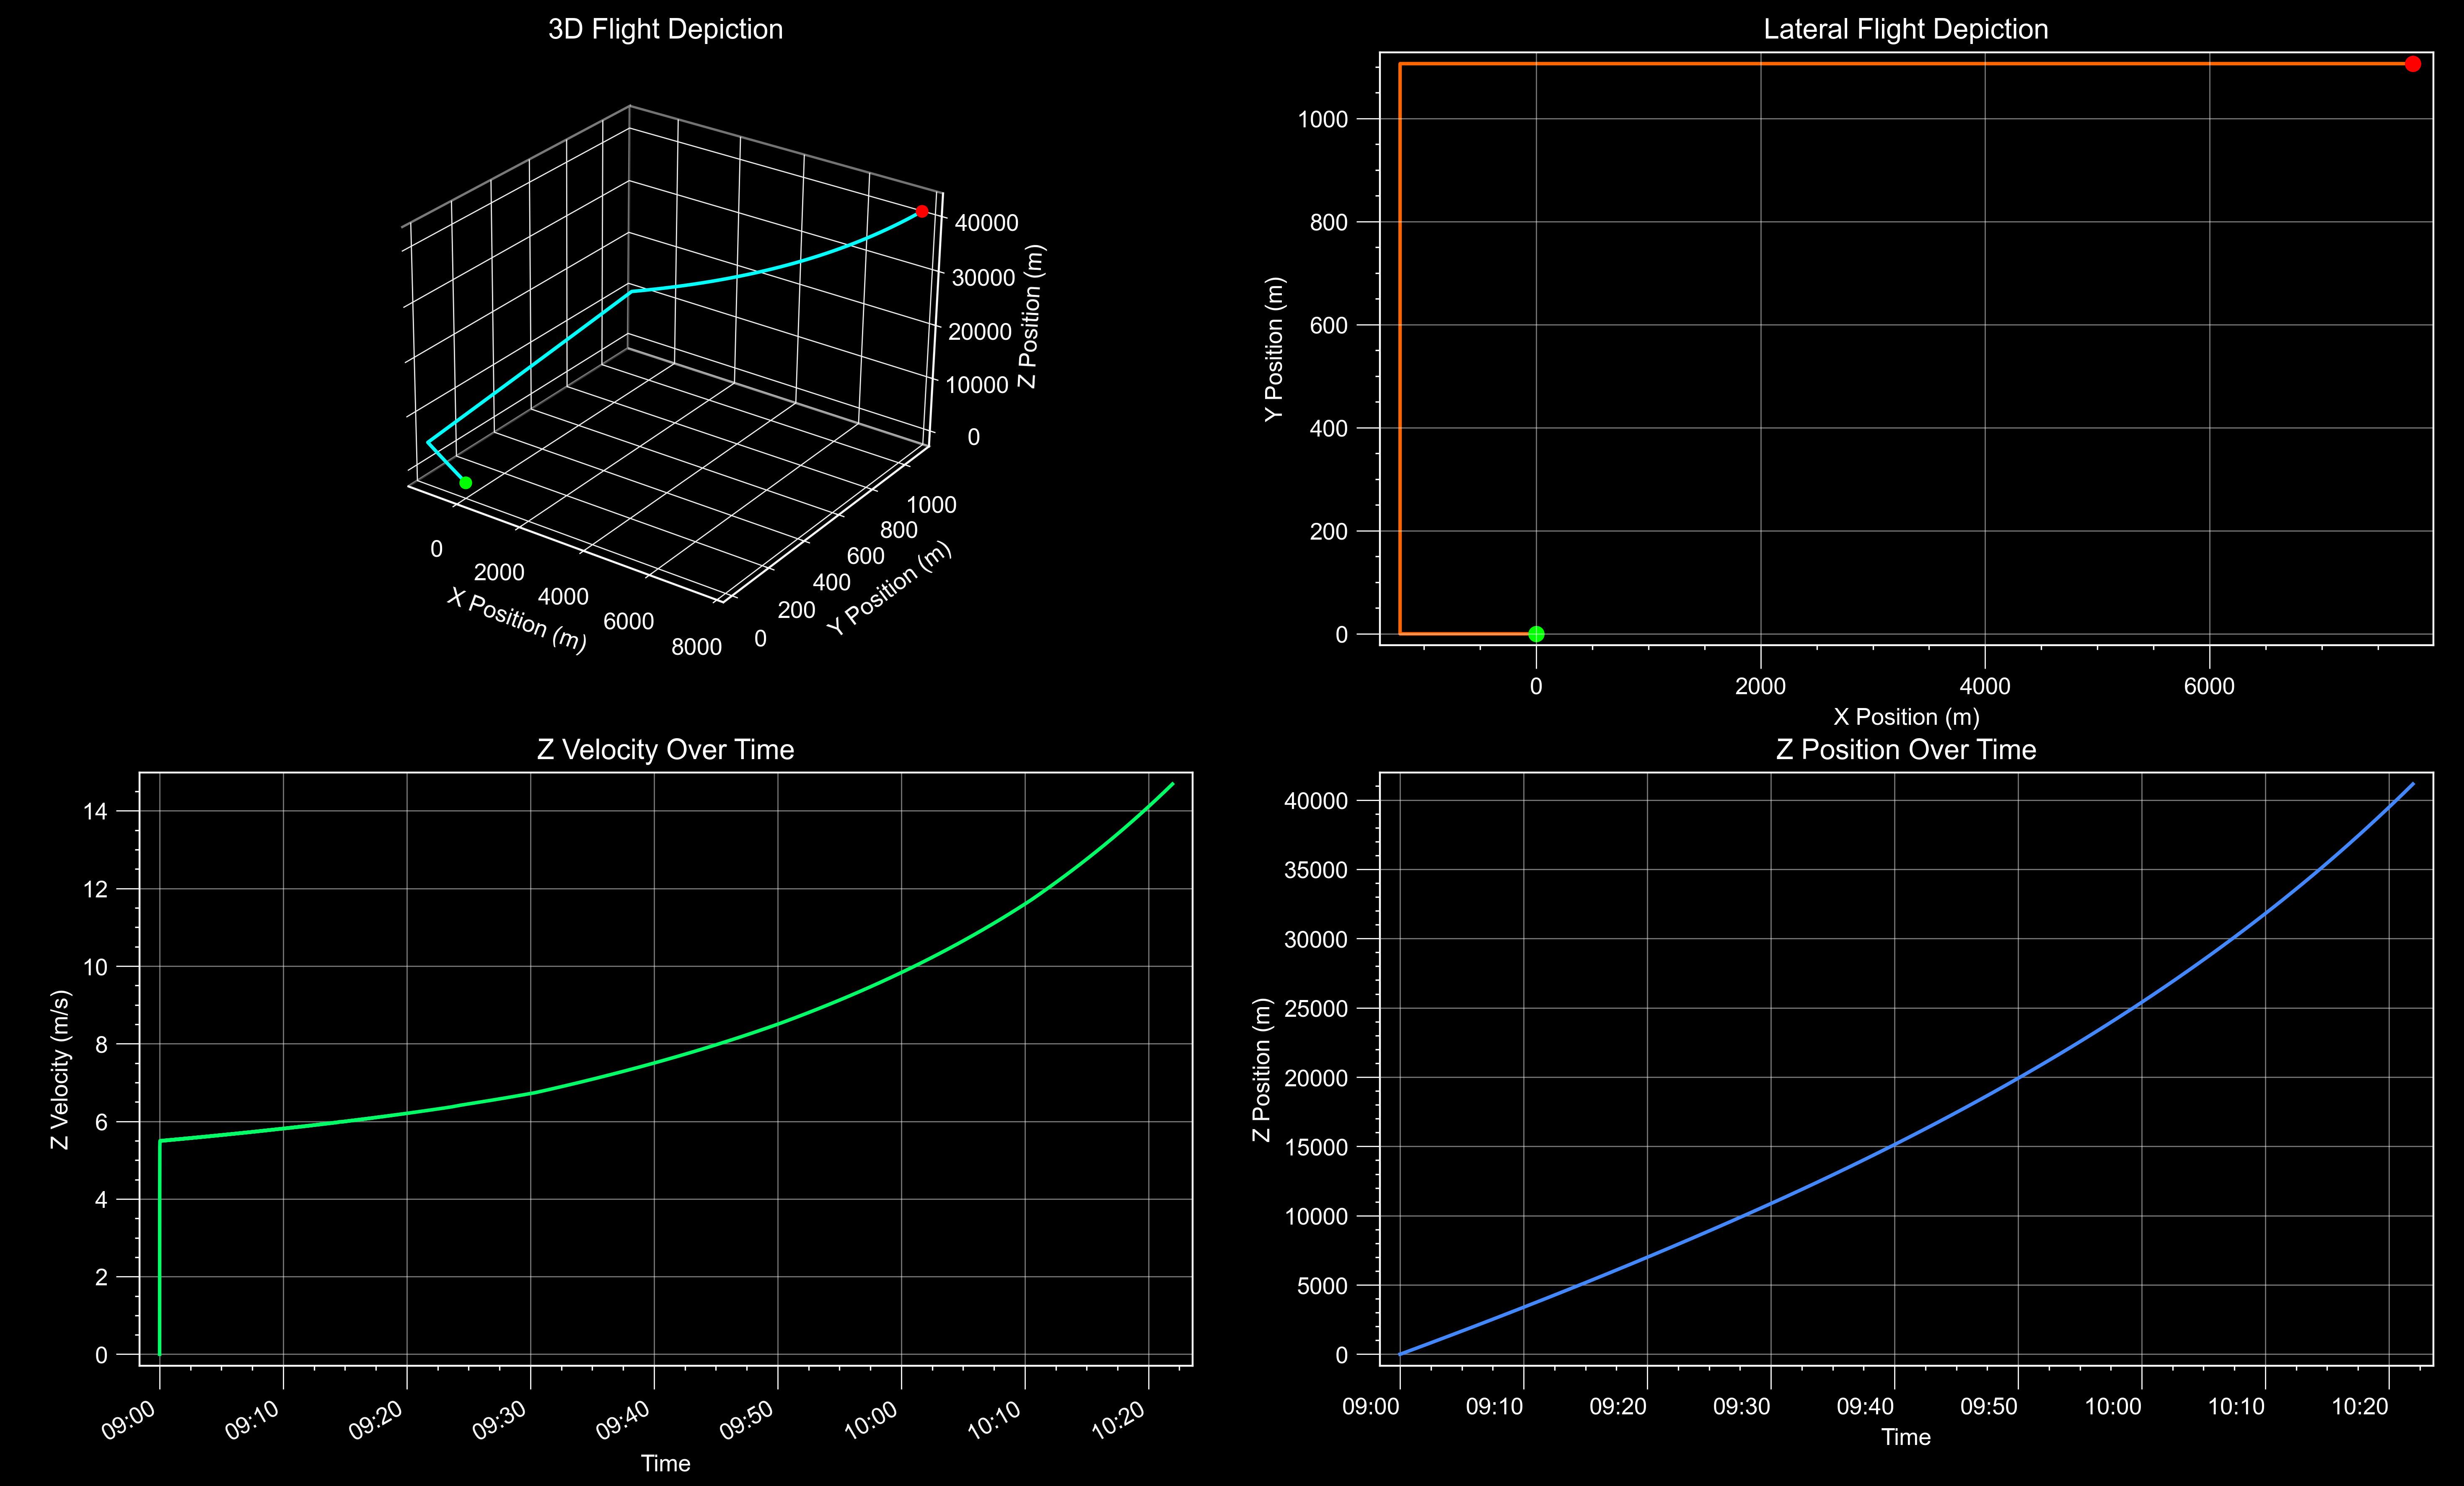
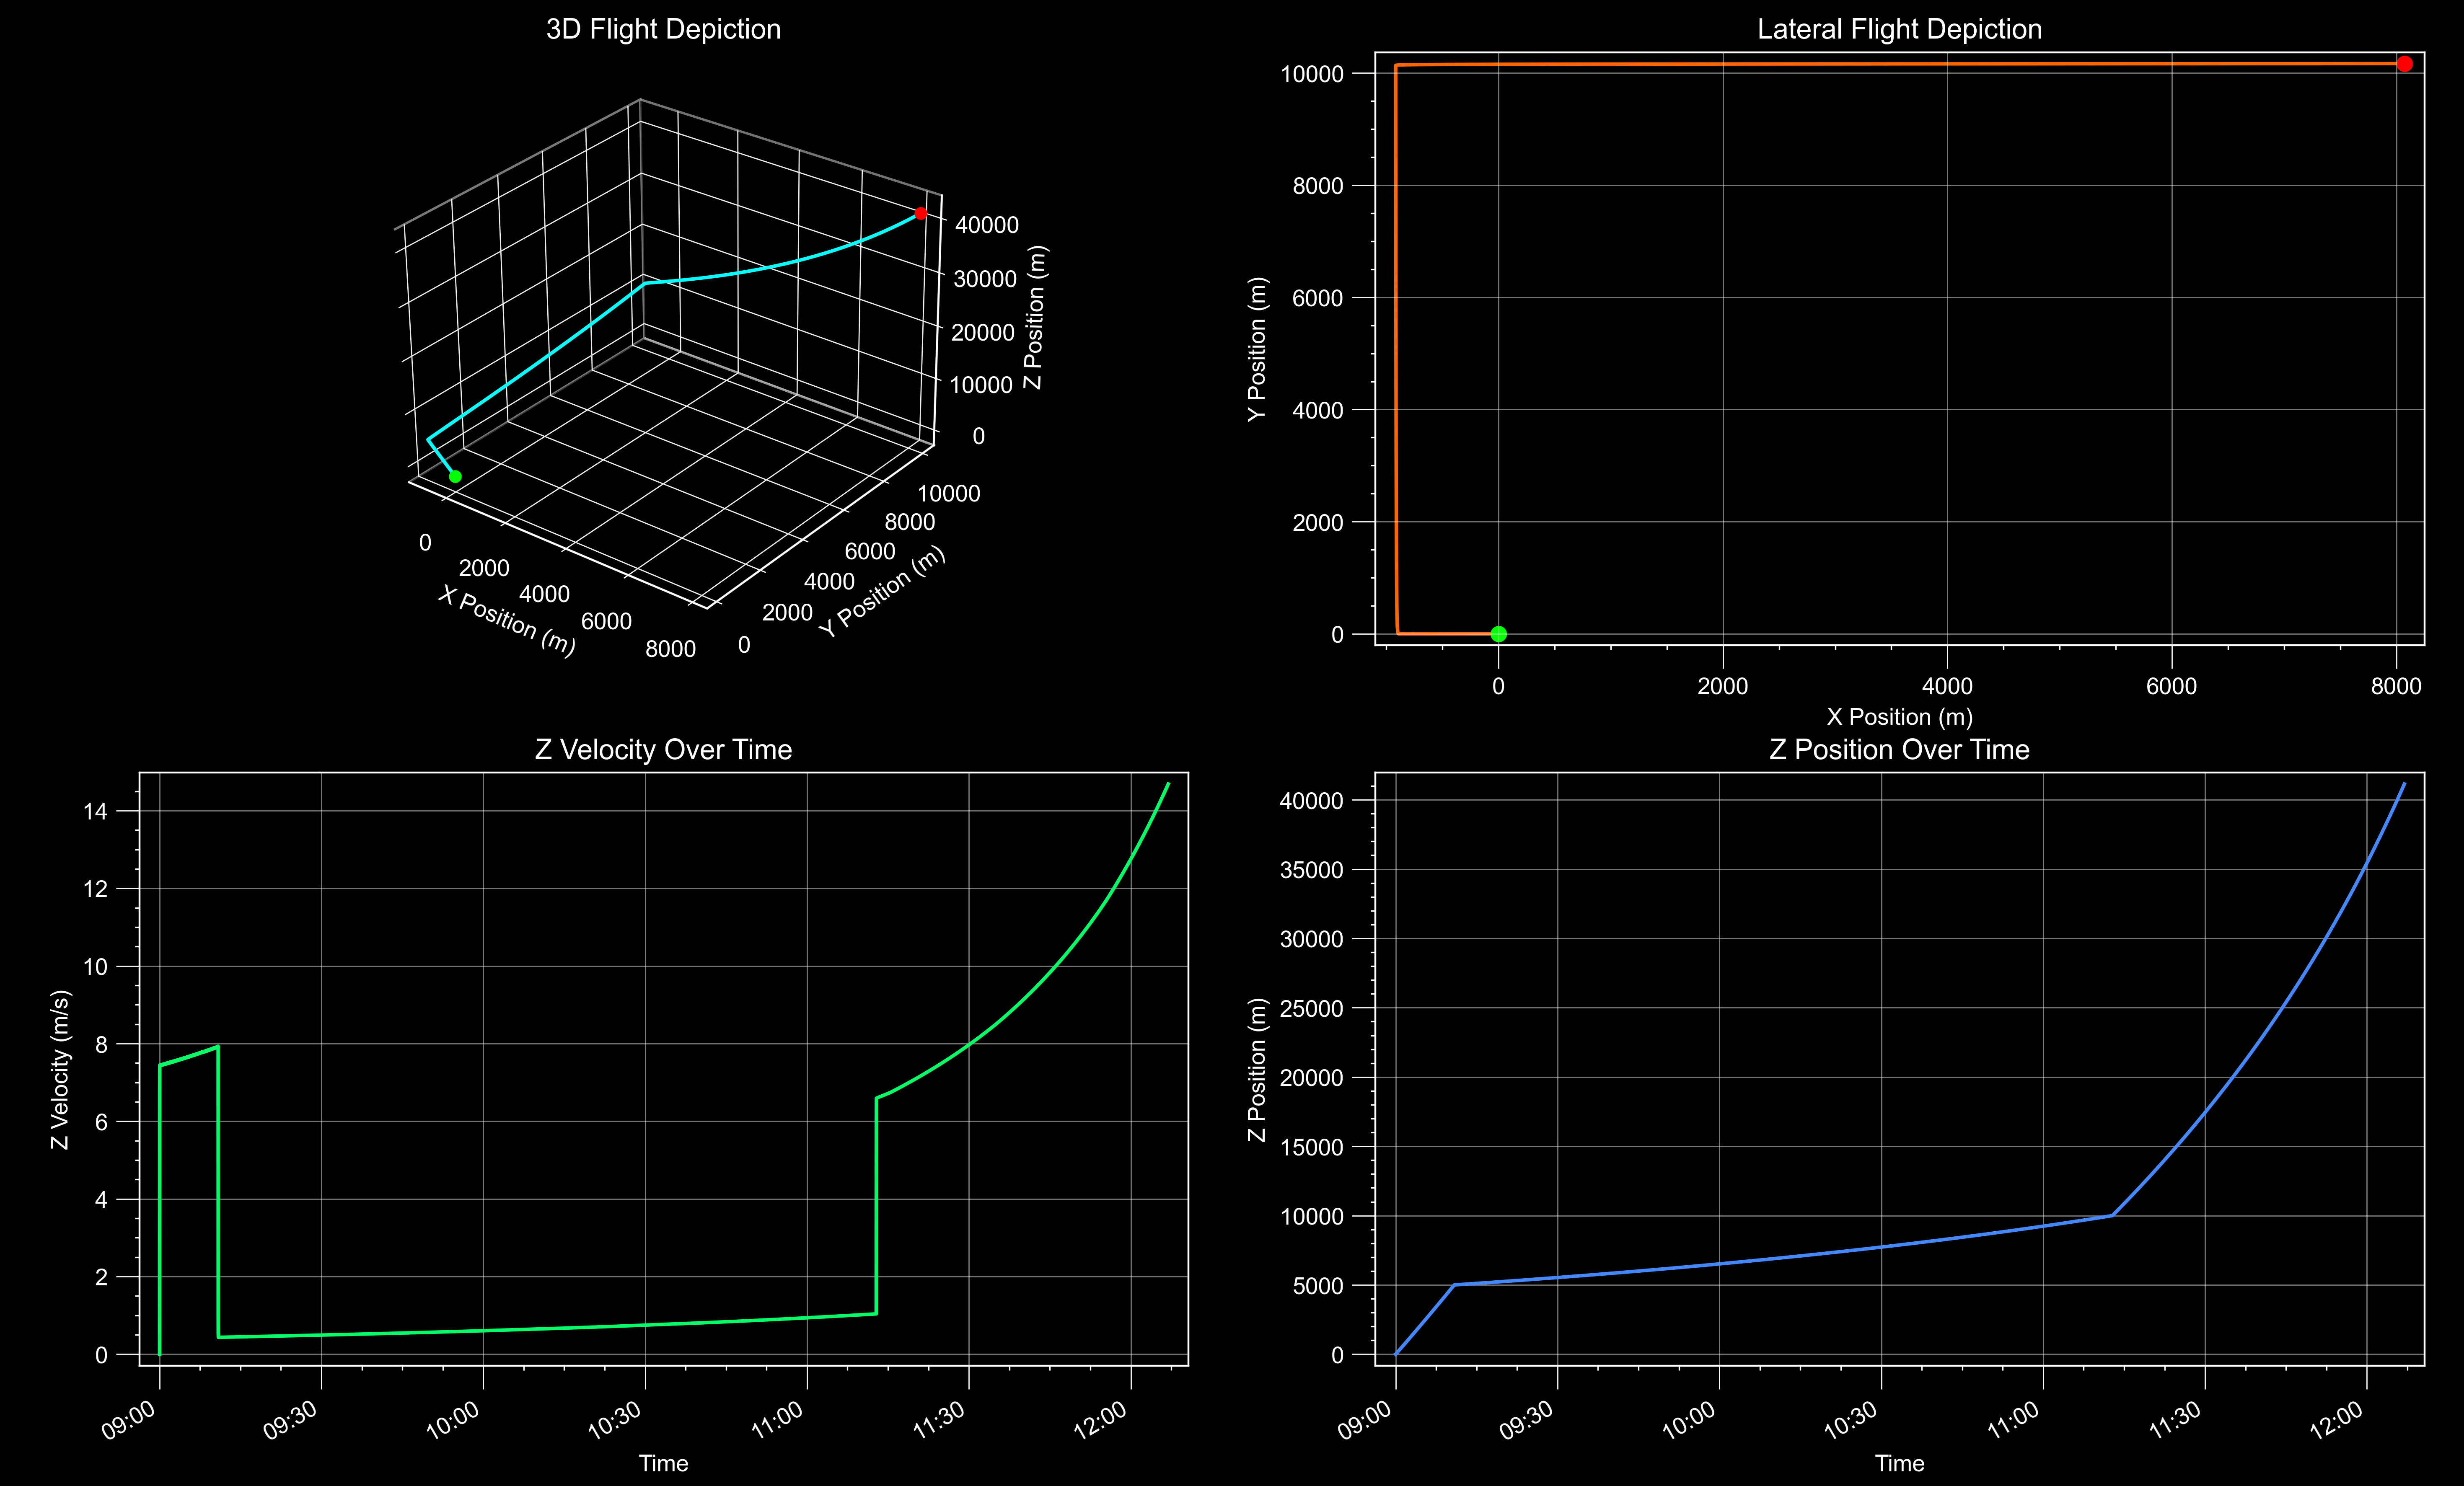
Added Horizontal Drag, Vector3 Wind Bands

diff --git a/main.py b/main.py
@@ -5,9 +5,12 @@ from numpy import sign, pi as PI, sqrt
 from aquarel import load_theme
 import matplotlib.dates as mdates
 from datetime import datetime, timedelta
+import warnings
+warnings.filterwarnings("ignore")
+from tqdm.rich import tqdm
+
 
 # Constants
-burst_time = 1e9                       # Placeholder
 g = 9.81                               # [m/s^2] Acceleration due to gravity
 gas_constant = 2077                    # Specific Gas Constant for Helium
 drag_coeff = 0.5                       # Drag Coefficient for Balloon
@@ -19,89 +22,117 @@ time_step = 1                          # [s] Time step at which to simulate
 initial_height = 0                     # [m] Starting height of the balloon
 initial_radius = 0                     # [m] Starting radius of the balloon
 launch_time = datetime(2025, 1, 1, 9, 0, 0)   # Launch datetime
+t_end = 50000                          # [s] Maximum time step (forceful stop)
 DEBUG = False
 
 # Wind Bands
-first_range = [0, 5000]                  # [m] Height range of the 1st band of wind
-second_range = [5000, 10000]             # [m] Height range of the 2nd band of wind
-third_range = [10000, 1e9]               # [m] Height range of the final band of wind
-first_vector = [-5,0]                    # [km/hr] 1st Wind Band Direction Vector
-second_vector = [0,5]                    # [km/hr] 1st Wind Band Direction Vector
-third_vector = [10,0]                    # [km/hr] 1st Wind Band Direction Vector
-first_band = [[first_vector[0]/3.6, first_vector[1]/3.6], first_range]      # 1st Vector Converted to [m/s]
-second_band = [[second_vector[0]/3.6, second_vector[1]/3.6], second_range]  # 2nd Vector Converted to [m/s]
-third_band = [[third_vector[0]/3.6, third_vector[1]/3.6], third_range]      # 3rd Vector Converted to [m/s]
+first_range   = [0, 5000]              # [m] Height range of the 1st band of wind
+second_range  = [5000, 10000]          # [m] Height range of the 2nd band of wind
+third_range   = [10000, 1e9]           # [m] Height range of the final band of wind
+first_vector  = [-5, 0, 7]            # [km/hr] 1st Wind Band Direction Vector [x, y, z]
+second_vector = [0, 5, -20]           # [km/hr] 2nd Wind Band Direction Vector [x, y, z]
+third_vector  = [10, 0, 0]            # [km/hr] 3rd Wind Band Direction Vector [x, y, z]
+first_band  = [[v/3.6 for v in first_vector],  first_range]   # 1st Vector Converted to [m/s]
+second_band = [[v/3.6 for v in second_vector], second_range]  # 2nd Vector Converted to [m/s]
+third_band  = [[v/3.6 for v in third_vector],  third_range]   # 3rd Vector Converted to [m/s]
 
 def mag(X, Y, Z):
-	return sqrt(X**2 + Y**2 + Z**2)
+    return sqrt(X**2 + Y**2 + Z**2)
 
 class System(object):
-	def __init__(self, x, y, z, vx, vy, vz):
-		self.x = x
-		self.y = y
-		self.z = z
-		self.vx = vx
-		self.vy = vy
-		self.vz = vz
-		self.r = initial_radius
-		self.burst_time = 1e9         # Placeholder
-		self.endpoint = [0,0,0,0]     # Placeholder
+    def __init__(self, x, y, z, vx, vy, vz):
+        self.x = x
+        self.y = y
+        self.z = z
+        self.vx = vx
+        self.vy = vy
+        self.vz = vz
+        self.r = initial_radius
+        self.burst_time = 1e9
+        self.endpoint = [0, 0, 0, 0]
+        self.burst_occurred = False
 
-	def calculate(self, z, vz):
-		# Get atmospheric conditions
-		atm = coesa76(z/1000)     # Divide z [m] by 1000 to get input in [km]
-		air_density = atm.rho[0]  # Air density (kg/m^3)
-		air_temp = atm.T[0]       # Temperature (K)
-		air_pressure = atm.P[0]   # Pressure (Pa)
+    def get_atmosphere(self, z):
+        atm = coesa76(z / 1000)
+        air_density  = atm.rho[0]    # [kg/m^3]
+        air_temp     = atm.T[0]      # [K]
+        air_pressure = atm.P[0]      # [Pa]
+        V = (helium_mass * gas_constant * air_temp) / air_pressure   # [m^3]
+        self.r = pow(3*V / (4*PI), 1/3)                               # [m]
+        return air_density, V
 
-		# Compute volume and buoyant force
-		V = (helium_mass*gas_constant*air_temp)/air_pressure   #[m^3]
-		self.r = pow(3*V/(4*PI), 1/3)                          #[m]
-		buoyancy = air_density * V * g / total_mass            #[m/s^2]
+    def get_wind(self, z):
+        if first_range[0] <= z < first_range[1]:
+            return first_band[0]
+        elif second_range[0] <= z < second_range[1]:
+            return second_band[0]
+        else:
+            return third_band[0]
 
-		drag = -0.5*sign(vz)*drag_coeff*air_density*(PI*self.r**2)*(vz**2) / total_mass  #[m/s^2], Always opposes z velocity
+    def _drag(self, air_density, rel_v):
+        A = PI * self.r**2
+        return -0.5 * sign(rel_v) * drag_coeff * air_density * A * rel_v**2 / total_mass
 
-		return buoyancy + drag - g    # [m/s^2] Drag is added because it opposes the sign of v_z by design
+    def vertical_acceleration(self, air_density, V, vz, wind_vz):
+        buoyancy = air_density * V * g / total_mass
+        return buoyancy + self._drag(air_density, vz - wind_vz) - g
 
-	def balloon_dynamics(self, t, state):
-		if self.endpoint != [0,0,0,0]:
-			return [0,0,0,0,0,0]
-		self.x, self.y, self.z, self.vx, self.vy, self.vz = state
-		ax, ay = [0,0]
+    def balloon_dynamics(self, t, state):
+        if self.endpoint != [0, 0, 0, 0]:
+            return [0, 0, 0, 0, 0, 0]
 
-		# Handle x-y movement depending on wind band
-		if first_range[0] <= self.z < first_range[1]:
-			self.vx, self.vy = first_band[0]  # [m/s]
-		elif second_range[0] <= self.z < second_range[1]:
-			self.vx, self.vy = second_band[0] # [m/s]
-		else:
-			self.vx, self.vy = third_band[0]  # [m/s]
+        self.x, self.y, self.z, self.vx, self.vy, self.vz = state
 
-		az = self.calculate(self.z, self.vz)
-		if self.r > burst_radius and t < self.burst_time:
-			burst_clock = launch_time + timedelta(seconds=float(t))
-			self.burst_time = t
-			print(f"At {burst_clock.strftime('%H:%M:%S')}, The Balloon burst at ({self.x/1000:.3f}km, {self.y/1000:.3f}km, {self.z/1000:.3f}km) at a lateral distance {mag(self.x,self.y,0)/1000:.3f}km")
-			self.endpoint = [self.x,self.y,self.z]
-		if int(t) % 10 == 0 and abs(t-int(t)) < 0.01 and DEBUG:
-			print(f"Done for {t:.0f}s")
-		return [self.vx, self.vy, self.vz, ax, ay, az]
+        air_density, V = self.get_atmosphere(self.z)
+        wind = self.get_wind(self.z)
+
+        ax = self._drag(air_density, self.vx - wind[0])
+        ay = self._drag(air_density, self.vy - wind[1])
+        az = self.vertical_acceleration(air_density, V, self.vz, wind[2])
+
+        if self.r > burst_radius and t < self.burst_time:
+            burst_clock = launch_time + timedelta(seconds=float(t))
+            print(f"\nAt {burst_clock.strftime('%H:%M:%S')}, The Balloon burst at ({self.x/1000:.3f}km, {self.y/1000:.3f}km, {self.z/1000:.3f}km) at a lateral distance {mag(self.x, self.y, 0)/1000:.3f}km")
+            self.burst_time = t
+            self.burst_occurred = True
+            self.endpoint = [self.x, self.y, self.z]
+
+        if int(t) % 10 == 0 and abs(t - int(t)) < 0.01 and DEBUG:
+            print(f"Done for {t:.0f}s")
+
+        return [self.vx, self.vy, self.vz, ax, ay, az]
 
 
 # Solve System Using our Conditions
+
 state0 = [0, 0, initial_height, 0, 0, 0]
 system = System(*state0)
-sol = solve_ivp(system.balloon_dynamics, [0, 5000], state0, method='RK45', max_step=time_step)
 
-# Make curves end when balloon bursts
-burst_index = 0
+with tqdm(total=t_end, desc="Simulating", unit="s") as pbar:
+    last_t = [0]
+    original_dynamics = system.balloon_dynamics
+
+    def tracked_dynamics(t, state):
+        pbar.update(t - last_t[0])
+        last_t[0] = t
+        return original_dynamics(t, state)
+
+    sol = solve_ivp(tracked_dynamics, [0, t_end], state0, method='RK45', max_step=time_step)
+
+# Make curves end when balloon bursts, or use full trajectory if no burst
+burst_index = len(sol.t) - 1
 for i, el in enumerate(sol.t):
-	if el >= system.burst_time and burst_index == 0:
-		burst_index = i - 1
-		break
+    if el >= system.burst_time and burst_index == len(sol.t) - 1:
+        burst_index = i - 1
+        break
+
+if not system.burst_occurred:
+    end_clock = launch_time + timedelta(seconds=float(sol.t[-1]))
+    print(f"Balloon did not burst. Simulation ended at {end_clock.strftime('%H:%M:%S')} at ({sol.y[0][-1]/1000:.3f}km, {sol.y[1][-1]/1000:.3f}km, {sol.y[2][-1]/1000:.3f}km)")
+
 SOL = []
-for i in range(0,6):
-	SOL.append(sol.y[i][:burst_index])
+for i in range(0, 6):
+    SOL.append(sol.y[i][:burst_index])
 SOL.append(sol.t[:burst_index])
 
 # Convert simulation time (seconds) to datetime objects
@@ -118,9 +149,10 @@ ax1.xaxis.pane.set_facecolor('black')
 ax1.yaxis.pane.set_facecolor('black')
 ax1.zaxis.pane.set_facecolor('black')
 ax1.minorticks_off()
-ax1.plot(SOL[0], SOL[1], SOL[2], color="#00FFFF")
-ax1.scatter([SOL[0][0]], [SOL[1][0]], [SOL[2][0]],color='#00FF00')
-ax1.scatter(*system.endpoint,color='#FF0000')
+ax1.plot(SOL[0], SOL[1], SOL[2], color='#00FFFF')
+ax1.scatter([SOL[0][0]], [SOL[1][0]], [SOL[2][0]], color='#00FF00')
+if system.burst_occurred:
+    ax1.scatter(*system.endpoint, color='#FF0000')
 ax1.set_xlabel('X Position (m)')
 ax1.set_ylabel('Y Position (m)')
 ax1.set_zlabel('Z Position (m)')
@@ -130,7 +162,7 @@ ax1.set_title('3D Flight Depiction')
 ax2 = fig.add_subplot(2, 2, 2)
 ax2.plot(SOL[0], SOL[1], color='#FF6600', zorder=0)
 ax2.scatter(SOL[0][0], SOL[1][0], color='#00FF00', zorder=1)
-ax2.scatter(SOL[0][-1], SOL[1][-1], color='#FF0000', zorder=1)
+ax2.scatter(SOL[0][-1], SOL[1][-1], color='#FF0000' if system.burst_occurred else '#FFFF00', zorder=1)
 ax2.set_xlabel('X Position (m)')
 ax2.set_ylabel('Y Position (m)')
 ax2.set_title('Lateral Flight Depiction')
@@ -143,6 +175,7 @@ ax3.xaxis.set_major_locator(mdates.AutoDateLocator())
 plt.setp(ax3.xaxis.get_majorticklabels(), rotation=30, ha='right')
 ax3.set_xlabel('Time')
 ax3.set_ylabel('Z Velocity (m/s)')
+ax3.set_yscale('linear')
 ax3.set_title('Z Velocity Over Time')
 
 # Bottom-right: Z Position over time
@@ -150,7 +183,7 @@ ax4 = fig.add_subplot(2, 2, 4)
 ax4.plot(timestamps, SOL[2], color='#4488FF')
 ax4.xaxis.set_major_formatter(mdates.DateFormatter('%H:%M'))
 ax4.xaxis.set_major_locator(mdates.AutoDateLocator())
-plt.setp(ax4.xaxis.get_majorticklabels(), ha='right')
+plt.setp(ax4.xaxis.get_majorticklabels(), rotation=30, ha='right')
 ax4.set_xlabel('Time')
 ax4.set_ylabel('Z Position (m)')
 ax4.set_title('Z Position Over Time')

diff --git a/README.md b/README.md
@@ -1,0 +1,66 @@
+# BalloonWindSimulator
+
+6-DOF helium weather balloon flight simulator with COESA-76 atmospheric modeling, layered wind bands, and RK45 numerical integration.
+
+---
+
+## Usage
+
+```bash
+python main.py
+```
+
+Configure constants and wind bands at the top of `main.py`. Outputs `fig.png`.
+
+---
+
+## Configuration
+
+| Parameter | Default | Description |
+|---|---|---|
+| `helium_mass` | 1.0 kg | Helium fill mass |
+| `skin_mass` | 2.5 kg | Skin + payload mass |
+| `drag_coeff` | 0.5 | Cd (sphere) |
+| `burst_radius` | 8 m | Burst condition |
+| `time_step` | 1 s | Max RK45 step size |
+| `t_end` | 50000 s | Simulation time limit |
+| `launch_time` | `2025-01-01 09:00:00` | Wall-clock launch time |
+
+Wind bands take a 3D velocity vector [km/hr] and an altitude range [m]:
+
+```python
+first_range,  first_vector  = [0, 5000],      [-5, 0,   7]
+second_range, second_vector = [5000, 10000],  [ 0, 5, -20]
+third_range,  third_vector  = [10000, 1e9],   [10, 0,   0]
+```
+
+The z-component of each wind vector drives a vertical downdraft or updraft within that band. The balloon has inertia in all three axes and responds to wind continuously via drag rather than snapping to the wind velocity.
+
+---
+
+## Physics Model
+
+**Atmosphere**: COESA-76 standard atmosphere (ρ, T, P as functions of altitude). Valid to 86 km.
+
+**Balloon volume**: Ideal gas law — `V = m_He · R_He · T / P`. Radius from sphere assumption: `r = (3V/4π)^(1/3)`.
+
+**Drag** (`_drag`): Applied uniformly across all three axes against velocity relative to the local wind:
+`F_drag = -0.5 · sign(v_rel) · Cd · ρ · πr² · v_rel²`
+
+**Vertical** (`vertical_acceleration`):
+`a_z = (ρ_air · V · g) / m_total + F_drag,z - g`
+
+**Horizontal**: `a_x`, `a_y` are pure drag terms against wind-relative velocity. The balloon accelerates toward the wind vector over time rather than matching it instantly.
+
+**Integration**: RK45 via `scipy.solve_ivp`, `max_step = 1s`. If no burst occurs within `t_end`, the full trajectory is plotted and a no-burst message is logged.
+
+---
+
+## Assumptions & Limitations
+
+- Perfect sphere geometry; no skin elasticity or deformation
+- No heat transfer — helium temperature equals ambient at all times
+- Wind bands are step functions in altitude; no vertical shear or interpolation between bands
+- Drag is applied independently per axis rather than against the full 3D relative velocity vector
+- No turbulence or stochastic atmospheric variation
+- Simulation terminates at burst; no descent phase